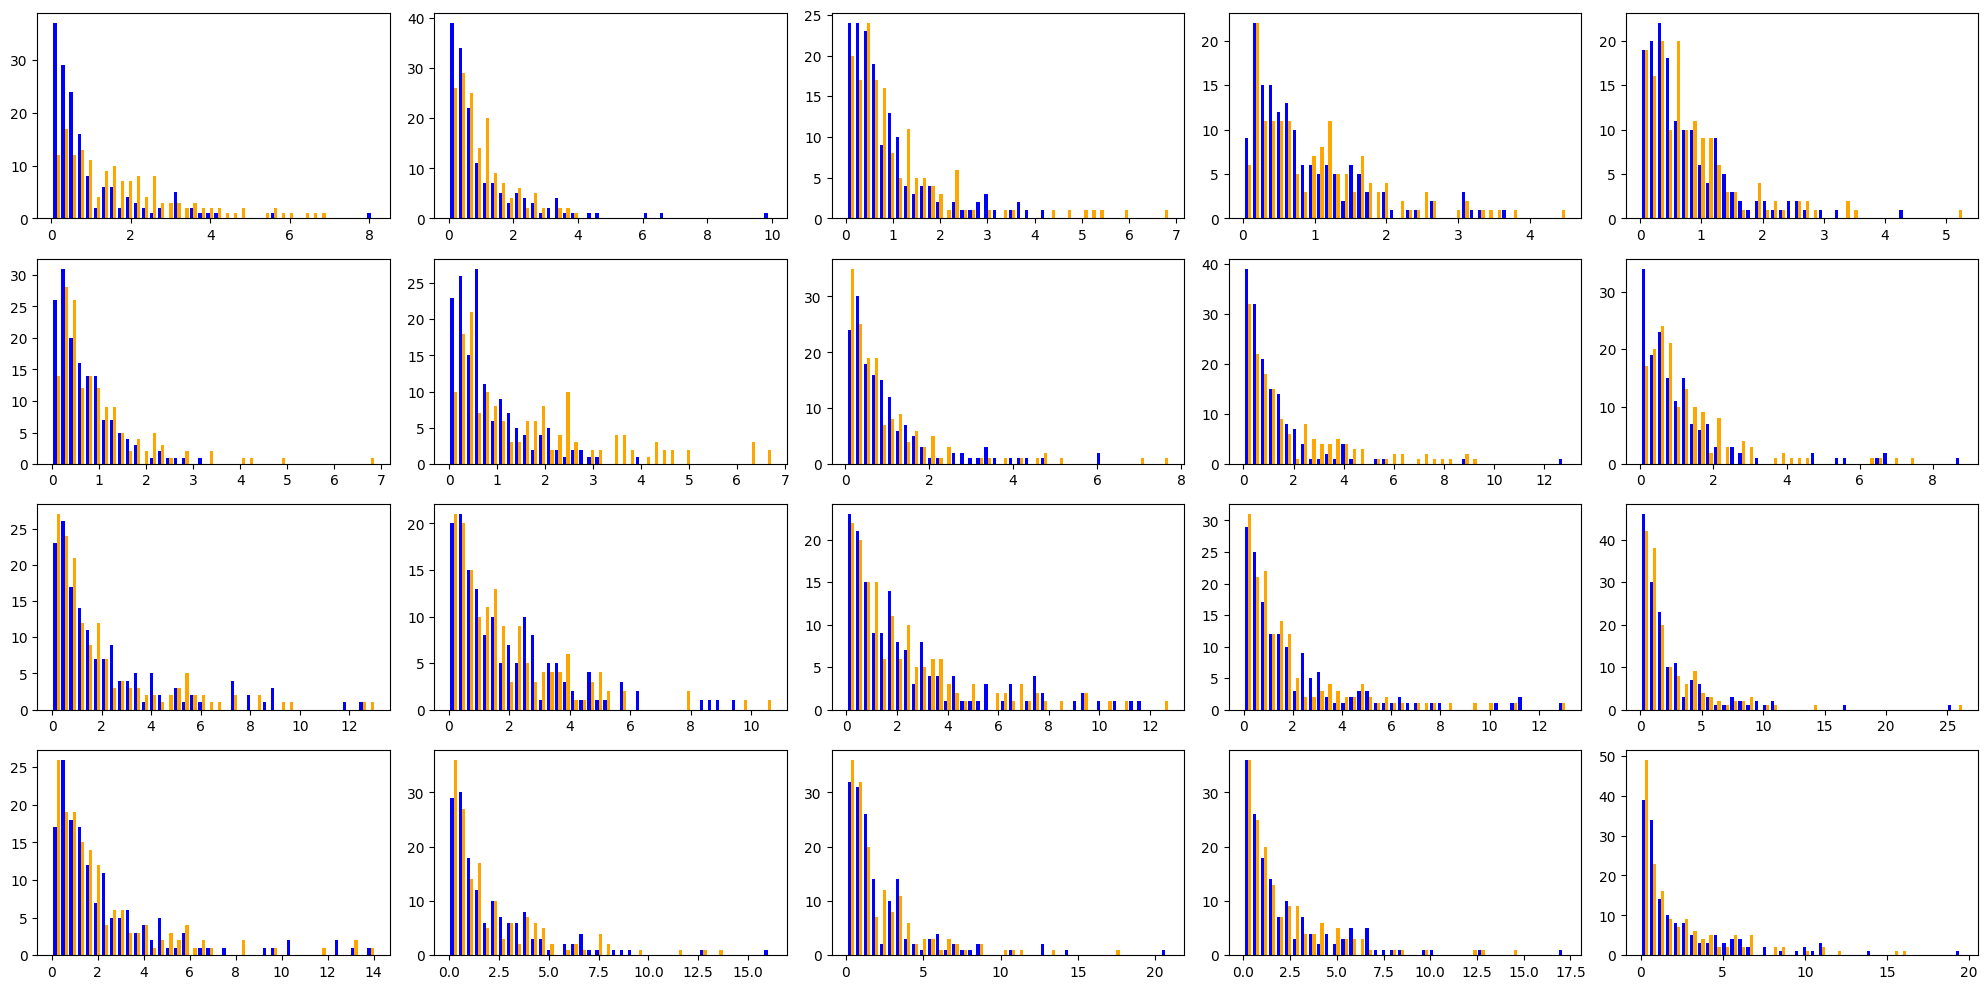
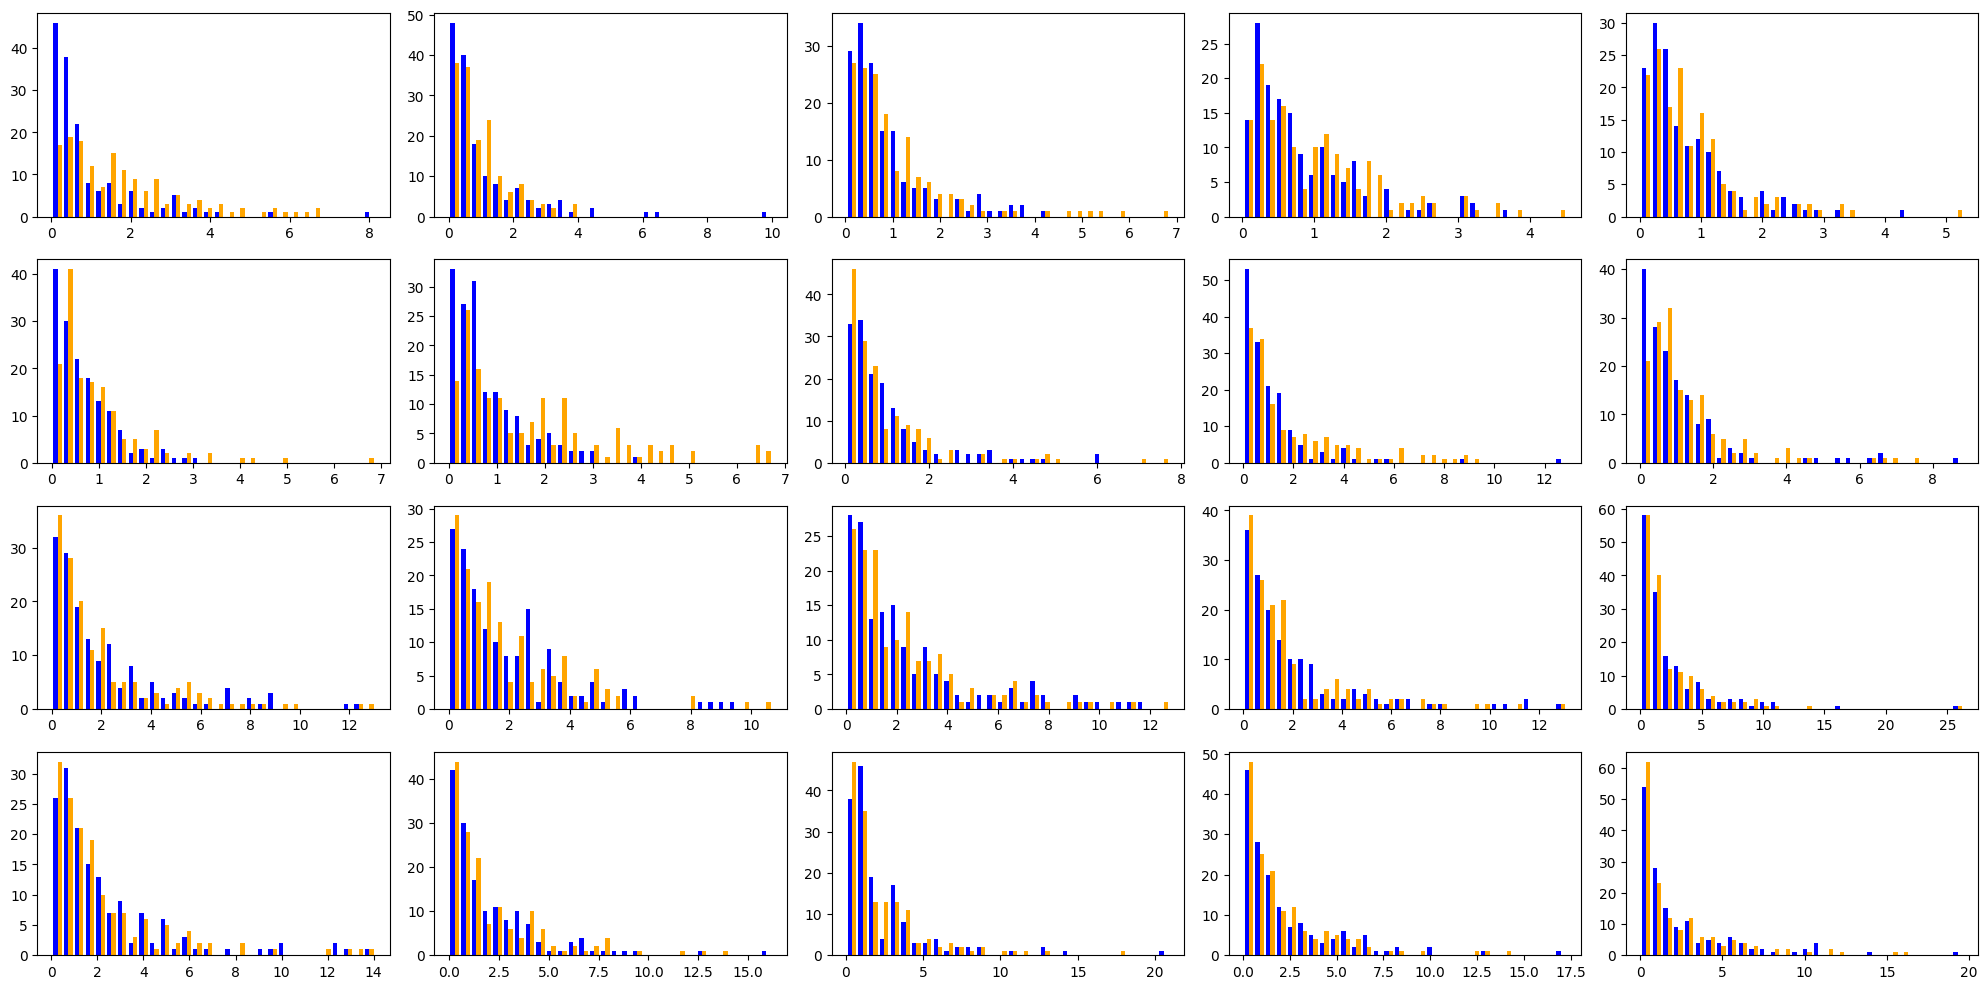
a

diff --git a/notebooks/metrics_all_fold.py b/notebooks/metrics_all_fold.py
@@ -121,12 +121,15 @@ os.makedirs(kl_figs_folder, exist_ok=True)
 # Show only history gram
 # plt.rcParams['figure.facecolor'] = 'white'
 # plt.rcParams.update({'figure.figsize':(6,4), 'figure.dpi':100})
-n_bins = 40
+n_bins = 30
 colors = ['blue', 'orange']
 label = ["Mixed Data", "Separate Data"]
 
 plt.figure()
 fig, axes = plt.subplots(4, 5, figsize=(20, 10))
+
+stats_crnn = []
+stats_rf = []
 
 for fold in range(10):
 
@@ -138,6 +141,10 @@ for fold in range(10):
 
   row = fold // 5
   col = fold % 5
+
+  agg_mixed = tf.reduce_sum(kl_all_mixed).numpy()
+  agg_sep = tf.reduce_sum(kl_all_sep).numpy()
+  stats_crnn.append([agg_mixed, agg_sep])
 
   # Plot Histogram on x
   axes[row, col].hist(kl_all_mix_sep, bins=n_bins, histtype='bar', color=colors, label=label)
@@ -154,6 +161,10 @@ for fold in range(10):
   kl_all_mixed = df_kl_data.iloc[:, 1]
   kl_all_sep = df_kl_data.iloc[:, 2]
   kl_all_mix_sep = df_kl_data.iloc[:, 1:]
+
+  agg_mixed = tf.reduce_sum(kl_all_mixed).numpy()
+  agg_sep = tf.reduce_sum(kl_all_sep).numpy()
+  stats_rf.append([agg_mixed, agg_sep])
 
   row = (10 + fold) // 5
   col = (10 + fold) % 5
@@ -173,7 +184,14 @@ plt.tight_layout()
 
 plt.show()
 
+# %%
 
+# Export aggregation data
+stats_crnn_pd = pd.DataFrame(stats_crnn, columns=["mixed", "sep"])
+stats_crnn_pd.to_csv("./aggs/stats_crnn.csv", index=False)
+
+stats_rf_pd = pd.DataFrame(stats_rf, columns=["mixed", "sep"])
+stats_rf_pd.to_csv("./aggs/stats_rf.csv", index=False)
 
 
 # %%
